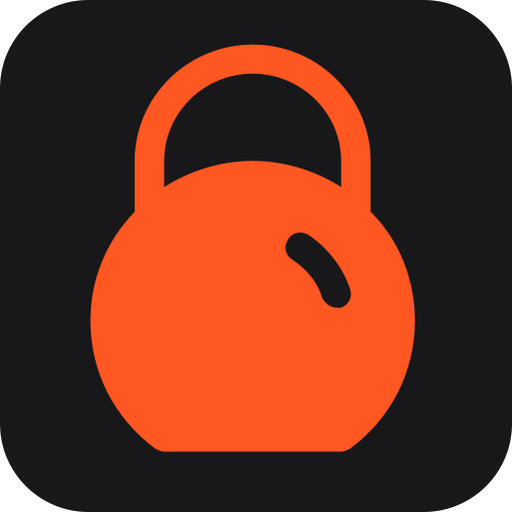
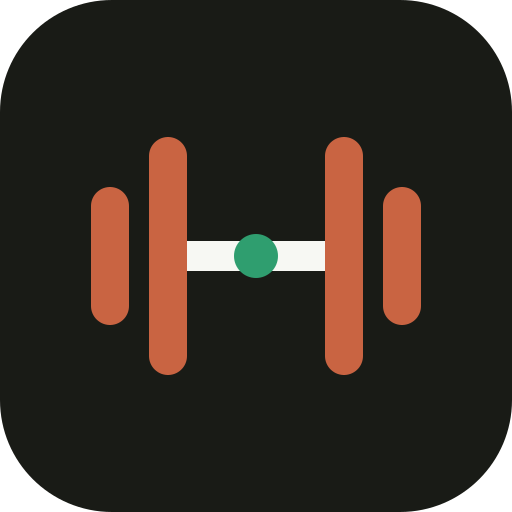
bv: ui fixes

diff --git a/client/src/components/AppLayout.tsx b/client/src/components/AppLayout.tsx
@@ -1,96 +1,15 @@
-import { useEffect, useRef, useState } from 'react';
+import { AppHeader } from '@medano-ui/react';
 import { Link, Outlet, useNavigate } from 'react-router-dom';
 import { useAuth } from '../auth/AuthContext';
-import { ACCENTS, useTheme } from '../lib/theme';
-import { CheckIcon, LogoutIcon, MoonIcon, PaletteIcon, SunIcon } from './Icons';
 import { InstallButton } from './InstallButton';
 import { Logo } from './ui';
 
-const iconBtn =
-  'flex h-10 w-10 items-center justify-center rounded-xl text-ink-muted transition-colors hover:bg-raised hover:text-ink';
-
-function ThemeToggle() {
-  const { theme, toggle } = useTheme();
-  const label = theme === 'dark' ? 'Usar tema claro' : 'Usar tema oscuro';
-  return (
-    <button type="button" onClick={toggle} title={label} aria-label={label} className={iconBtn}>
-      {theme === 'dark' ? <SunIcon className="h-5 w-5" /> : <MoonIcon className="h-5 w-5" />}
-    </button>
-  );
-}
-
-/** Selector de color de acento de la app (popover con muestras). */
-function AccentPicker() {
-  const { accent, setAccent } = useTheme();
-  const [open, setOpen] = useState(false);
-  const ref = useRef<HTMLDivElement>(null);
-
-  useEffect(() => {
-    if (!open) return;
-    const onDown = (e: MouseEvent) => {
-      if (ref.current && !ref.current.contains(e.target as Node)) setOpen(false);
-    };
-    const onKey = (e: KeyboardEvent) => {
-      if (e.key === 'Escape') setOpen(false);
-    };
-    document.addEventListener('mousedown', onDown);
-    document.addEventListener('keydown', onKey);
-    return () => {
-      document.removeEventListener('mousedown', onDown);
-      document.removeEventListener('keydown', onKey);
-    };
-  }, [open]);
-
-  return (
-    <div ref={ref} className="relative">
-      <button
-        type="button"
-        onClick={() => setOpen((o) => !o)}
-        aria-label="Cambiar color de la app"
-        aria-haspopup="true"
-        aria-expanded={open}
-        className={iconBtn}
-      >
-        <PaletteIcon className="h-5 w-5" />
-      </button>
-
-      {open && (
-        <div className="absolute right-0 z-50 mt-2 w-56 rounded-2xl border border-line bg-surface p-2 shadow-xl">
-          <p className="px-2 pb-1 pt-1 text-xs font-medium text-ink-muted">Color de la app</p>
-          <div className="flex flex-col gap-0.5">
-            {ACCENTS.map((a) => (
-              <button
-                key={a.id}
-                type="button"
-                onClick={() => {
-                  setAccent(a.id);
-                  setOpen(false);
-                }}
-                aria-pressed={accent === a.id}
-                className={cxBtn(accent === a.id)}
-              >
-                <span
-                  className="h-6 w-6 shrink-0 rounded-full ring-1 ring-line"
-                  style={{ backgroundColor: a.base }}
-                />
-                <span className="flex-1 text-left">{a.label}</span>
-                {accent === a.id && <CheckIcon className="h-4 w-4 text-accent" />}
-              </button>
-            ))}
-          </div>
-        </div>
-      )}
-    </div>
-  );
-}
-
-function cxBtn(active: boolean): string {
-  return `flex min-h-11 items-center gap-3 rounded-xl px-2 text-sm text-ink transition-colors hover:bg-raised ${
-    active ? 'bg-raised font-medium' : ''
-  }`;
-}
-
-function Header() {
+/**
+ * Shell de la app. El header (marca + selector de acento + tema + salir) es el
+ * componente común de la familia bv-* (AppHeader de medano); lo propio de cross
+ * es el logo, el nombre y el botón de instalación PWA.
+ */
+export function AppLayout() {
   const { logout } = useAuth();
   const navigate = useNavigate();
 
@@ -100,38 +19,23 @@ function Header() {
   };
 
   return (
-    <header className="sticky top-0 z-40 border-b border-line bg-base/85 backdrop-blur">
-      <div className="mx-auto flex h-14 w-full max-w-md items-center justify-between px-4">
-        <Link
-          to="/"
-          className="rounded-lg focus-visible:outline-none focus-visible:ring-2 focus-visible:ring-accent/50"
-        >
-          <Logo />
-        </Link>
-        <div className="flex items-center gap-0.5">
-          <InstallButton />
-          <AccentPicker />
-          <ThemeToggle />
-          <button
-            type="button"
-            onClick={onLogout}
-            title="Cerrar sesión"
-            aria-label="Cerrar sesión"
-            className={iconBtn}
-          >
-            <LogoutIcon className="h-5 w-5" />
-          </button>
-        </div>
-      </div>
-    </header>
-  );
-}
-
-export function AppLayout() {
-  return (
     <div className="min-h-dvh">
-      <Header />
       <main className="mx-auto w-full max-w-md px-4 pb-28 pt-5">
+        <div className="mb-5">
+          <AppHeader
+            logo={
+              <Link
+                to="/"
+                className="rounded-lg focus-visible:outline-none focus-visible:ring-2 focus-visible:ring-accent/50"
+              >
+                <Logo />
+              </Link>
+            }
+            title="BV Cross"
+            actions={<InstallButton />}
+            onLogout={onLogout}
+          />
+        </div>
         <Outlet />
       </main>
     </div>

diff --git a/client/src/components/ui.tsx b/client/src/components/ui.tsx
@@ -227,77 +227,38 @@ export function EmptyState({
 }
 
 /* ====== Logo ======
-   Marca inline (no <img>) para que se adapte a ambos temas:
-   el naranja queda como acento fijo y las partes claras usan
-   currentColor (= text-ink: oscuro en claro, claro en oscuro).
-   - size="lg" → wordmark completo "BV cross" (login)
-   - size="md" → versión compacta "BV" + ícono (header) */
-
-const ICON_FULL =
-  'M 206.771 -24.619 L 206.771 -30.382 C 206.771 -37.626 200.758 -43.554 193.408 -43.554 C 186.059 -43.554 180.045 -37.626 180.045 -30.382 L 180.045 -24.619 C 176.871 -21.326 175.034 -17.046 175.034 -12.271 C 175.034 -6.508 177.707 -1.24 182.384 2.218 C 182.718 2.382 183.052 2.547 183.386 2.547 L 203.431 2.547 C 203.765 2.547 204.099 2.382 204.433 2.218 C 209.11 -1.24 211.783 -6.508 211.783 -12.271 C 211.783 -17.046 209.945 -21.491 206.771 -24.619 Z M 183.386 -27.418 L 183.386 -30.382 C 183.386 -35.815 187.896 -40.261 193.408 -40.261 C 198.921 -40.261 203.431 -35.815 203.431 -30.382 L 203.431 -27.418 C 200.591 -29.229 197.083 -30.382 193.408 -30.382 C 189.733 -30.382 186.226 -29.229 183.386 -27.418 Z M 203.431 -13.753 C 203.264 -13.753 203.097 -13.753 202.93 -13.753 C 202.261 -13.753 201.593 -14.247 201.259 -14.905 C 200.758 -16.716 199.422 -18.198 197.918 -19.186 C 197.083 -19.68 196.916 -20.668 197.417 -21.491 C 197.918 -22.314 198.921 -22.479 199.756 -21.985 C 201.927 -20.503 203.598 -18.363 204.433 -15.893 C 204.767 -14.905 204.266 -14.082 203.431 -13.753 Z';
-
-const ICON_MINI =
-  'M 404.324 78.956 L 404.324 73.193 C 404.324 65.949 398.311 60.021 390.961 60.021 C 383.612 60.021 377.598 65.949 377.598 73.193 L 377.598 78.956 C 374.424 82.249 372.587 86.529 372.587 91.304 C 372.587 97.067 375.26 102.335 379.937 105.793 C 380.271 105.957 380.605 106.122 380.939 106.122 L 400.984 106.122 C 401.318 106.122 401.652 105.957 401.986 105.793 C 406.663 102.335 409.336 97.067 409.336 91.304 C 409.336 86.529 407.498 82.084 404.324 78.956 Z M 380.939 76.157 L 380.939 73.193 C 380.939 67.76 385.449 63.314 390.961 63.314 C 396.474 63.314 400.984 67.76 400.984 73.193 L 400.984 76.157 C 398.144 74.346 394.636 73.193 390.961 73.193 C 387.286 73.193 383.779 74.346 380.939 76.157 Z M 400.984 89.822 C 400.817 89.822 400.65 89.822 400.483 89.822 C 399.814 89.822 399.146 89.328 398.812 88.67 C 398.311 86.859 396.975 85.377 395.471 84.389 C 394.636 83.895 394.469 82.907 394.97 82.084 C 395.471 81.261 396.474 81.096 397.309 81.59 C 399.48 83.072 401.151 85.212 401.986 87.682 C 402.32 88.67 401.819 89.493 400.984 89.822 Z';
+   Marca inline (no <img>): mismo tile que public/icon.svg (barbell sobre
+   fondo oscuro redondeado). Los discos usan el acento seleccionable
+   (`--color-accent`) y el centro el verde ok, igual que el patrón de
+   Logo.tsx en el resto de la familia BV.
+   - size="lg" → login
+   - size="md" → header */
 
 export function Logo({ size = 'md' }: { size?: 'md' | 'lg' }) {
-  if (size === 'lg') {
-    return (
-      <svg
-        role="img"
-        aria-label="BV Cross"
-        viewBox="0 0 233.631 116.089"
-        className="h-14 w-auto text-ink"
-        xmlns="http://www.w3.org/2000/svg"
-      >
-        <g transform="matrix(1, 0, 0, 1, -36.871506, 86.201118)">
-          <text
-            x="44.581"
-            y="2.011"
-            fontFamily="Chewy, system-ui, sans-serif"
-            fontSize="90"
-            letterSpacing="-4"
-            style={{ whiteSpace: 'pre', fill: 'var(--color-accent)' }}
-          >
-            BV
-          </text>
-          <text
-            x="125"
-            y="0"
-            fontFamily="system-ui, -apple-system, sans-serif"
-            fontSize="60"
-            fontWeight={700}
-            letterSpacing="-3"
-            style={{ whiteSpace: 'pre', fill: 'currentColor' }}
-          >
-            cr   ss
-          </text>
-          <path d={ICON_FULL} style={{ fillRule: 'nonzero', fill: 'var(--color-accent)' }} />
-        </g>
-      </svg>
-    );
-  }
-
   return (
     <svg
       role="img"
       aria-label="BV Cross"
-      viewBox="0 0 128.38 113.743"
-      className="h-9 w-auto text-ink"
+      viewBox="0 0 512 512"
+      className={size === 'lg' ? 'h-14 w-14' : 'h-9 w-9'}
       xmlns="http://www.w3.org/2000/svg"
     >
-      <g transform="matrix(1, 0, 0, 1, -290.279327, -18.100559)">
-        <text
-          x="296.772"
-          y="104.916"
-          fontFamily="Chewy, system-ui, sans-serif"
-          fontSize="90"
-          letterSpacing="-4"
-          style={{ whiteSpace: 'pre', fill: 'var(--color-accent)' }}
-        >
-          BV
-        </text>
-        <path d={ICON_MINI} style={{ fillRule: 'nonzero', fill: 'currentColor' }} />
-      </g>
+      <rect width="512" height="512" rx="112" fill="#191B16" />
+      <path
+        d="M168 256 L344 256"
+        fill="none"
+        stroke="#F7F8F3"
+        strokeWidth={30}
+        strokeLinecap="round"
+      />
+      <path
+        d="M168 156 L168 356 M344 156 L344 356 M110 206 L110 306 M402 206 L402 306"
+        fill="none"
+        stroke="var(--color-accent)"
+        strokeWidth={38}
+        strokeLinecap="round"
+      />
+      <circle cx={256} cy={256} r={22} fill="var(--c-ok)" />
     </svg>
   );
 }

diff --git a/client/src/components/AuthShell.tsx b/client/src/components/AuthShell.tsx
@@ -1,6 +1,11 @@
 import type { ReactNode } from 'react';
+import { AuthLayout } from '@medano-ui/react';
 import { Logo } from './ui';
 
+/**
+ * Layout de autenticación. Usa el template único de la familia (AuthLayout de
+ * medano); lo propio de cross es el logo y el nombre.
+ */
 export function AuthShell({
   title,
   subtitle,
@@ -13,16 +18,8 @@ export function AuthShell({
   footer?: ReactNode;
 }) {
   return (
-    <div className="mx-auto flex min-h-dvh w-full max-w-md flex-col justify-center px-6 py-10">
-      <div className="mb-7 text-center">
-        <div className="flex justify-center">
-          <Logo size="lg" />
-        </div>
-        <h1 className="mt-5 font-display text-[22px] font-semibold text-ink">{title}</h1>
-        {subtitle && <p className="mt-1 text-sm text-ink-muted">{subtitle}</p>}
-      </div>
+    <AuthLayout logo={<Logo />} appName="BV Cross" title={title} subtitle={subtitle} footer={footer}>
       {children}
-      {footer && <div className="mt-6 text-center text-sm text-ink-muted">{footer}</div>}
-    </div>
+    </AuthLayout>
   );
 }

diff --git a/client/src/main.tsx b/client/src/main.tsx
@@ -1,13 +1,13 @@
+import { ThemeProvider } from '@medano-ui/react';
 import { StrictMode } from 'react';
 import { createRoot } from 'react-dom/client';
 import { App } from './App';
 import './lib/pwaInstall'; // captura beforeinstallprompt desde el arranque
-import { ThemeProvider } from './lib/theme';
 import './index.css';
 
 createRoot(document.getElementById('root')!).render(
   <StrictMode>
-    <ThemeProvider>
+    <ThemeProvider storageKeys={{ theme: 'bv-theme', accent: 'bv-accent' }}>
       <App />
     </ThemeProvider>
   </StrictMode>,

diff --git a/client/index.html b/client/index.html
@@ -12,9 +12,6 @@
     <meta name="mobile-web-app-capable" content="yes" />
     <meta name="apple-mobile-web-app-status-bar-style" content="black-translucent" />
     <meta name="apple-mobile-web-app-title" content="BV Cross" />
-    <link rel="preconnect" href="https://fonts.googleapis.com" />
-    <link rel="preconnect" href="https://fonts.gstatic.com" crossorigin />
-    <link rel="stylesheet" href="https://fonts.googleapis.com/css2?family=Chewy&display=swap" />
     <title>BV Cross</title>
     <script src="/theme-init.js"></script>
   </head>
